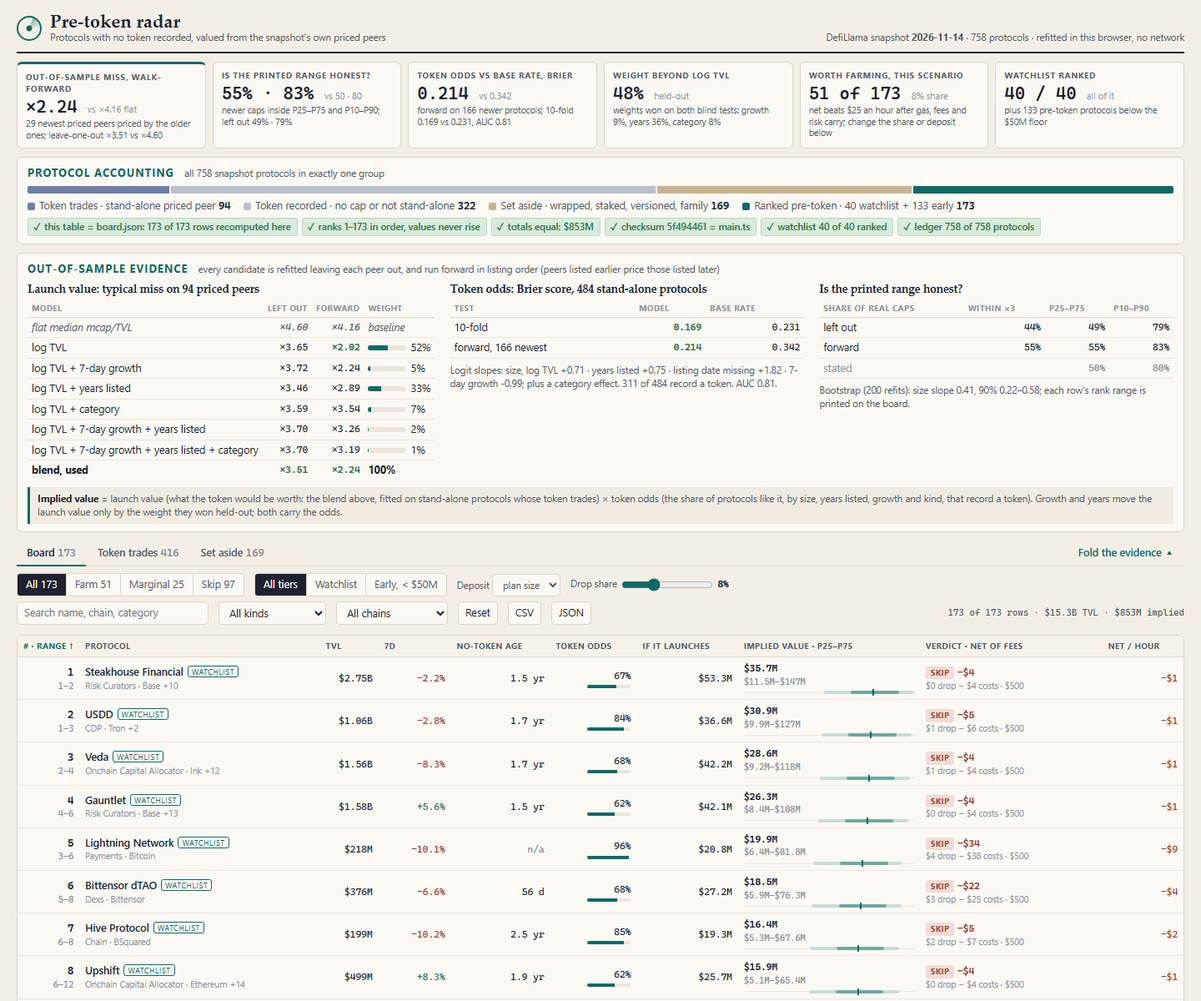
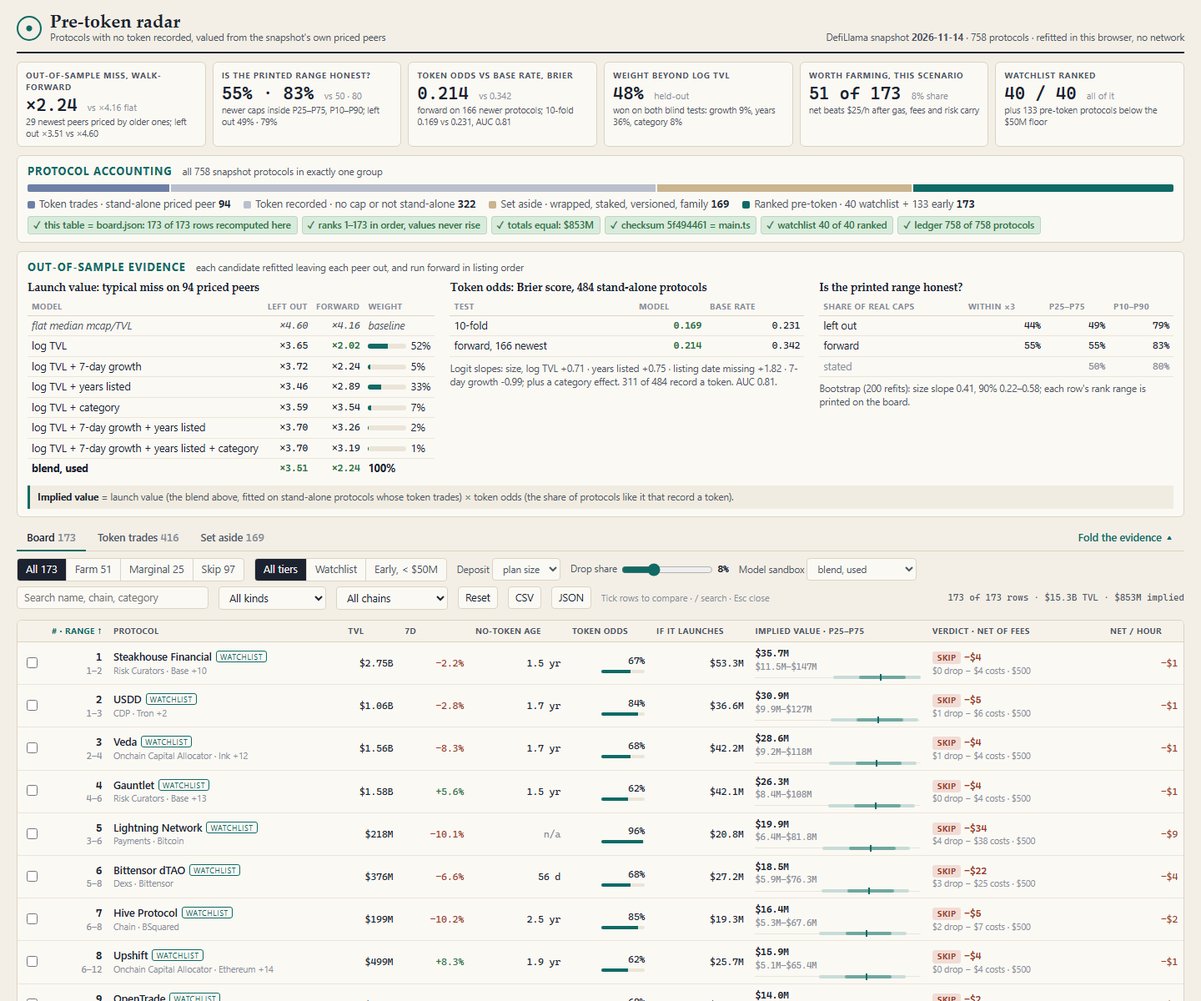
v4: compare ticked rows, model sandbox that re-ranks the board, keyboard search; source trimmed to fit the dossier whole

diff --git a/dashboard/app.js b/dashboard/app.js
@@ -23,8 +23,7 @@
     [c.comp + c.token + c.aside + c.pre === c.all, `ledger ${c.comp + c.token + c.aside + c.pre} of ${c.all} protocols`],
   ];
 
-  // ---- State in the hash ----
-  const DEF = { tab: 'board', q: '', v: '', tier: '', kind: '', chain: '', sort: 'rank', dir: '1', open: '', dep: '', share: '', fold: '' };
+  const DEF = { tab: 'board', q: '', v: '', tier: '', kind: '', chain: '', sort: 'rank', dir: '1', open: '', dep: '', share: '', fold: '', cmp: '', mdl: '' };
   let S = { ...DEF };
   const readHash = () => { S = { ...DEF }; new URLSearchParams(location.hash.slice(1)).forEach((v, k) => { if (k in S) S[k] = v; }); };
   function set(patch) {
@@ -44,23 +43,24 @@
     return cache.get(k);
   }
 
-  // ---- Small pieces ----
   const chip = (v) => `<span class="v v-${v}">${v}</span>`;
   const delta = (x) => (x == null ? '<span class="dim">n/a</span>' : `<span class="${x >= 0 ? 'up' : 'dn'}">${pct(x)}</span>`);
+  const delta0 = (x) => `<span class="${x >= 0 ? 'up' : 'dn'}">${usd(x)}</span>`;
   const age = (r) => (r.age === null ? '<span class="dim">n/a</span>' : r.age < 1 ? Math.round(r.age * 365) + ' d' : r.age.toFixed(1) + ' yr');
   const lo = Math.log10(Math.min(...R.ranked.map((r) => r.value.p10 * r.odds))), hi = Math.log10(Math.max(...R.ranked.map((r) => r.value.p90 * r.odds)));
   const at = (v) => ((Math.log10(v) - lo) / (hi - lo) * 100).toFixed(1);
   const band = (r) => { const v = r.value, k = r.odds; return `<span class="band"><i class="w" style="left:${at(v.p10 * k)}%;right:${100 - at(v.p90 * k)}%"></i><i class="i" style="left:${at(v.p25 * k)}%;right:${100 - at(v.p75 * k)}%"></i><b style="left:${at(r.implied)}%"></b></span>`; };
+  const kv = (cls, items) => `<dl class="kv ${cls}">${items.map(([t, v]) => `<div><dt>${t}</dt><dd>${v}</dd></div>`).join('')}</dl>`;
   const bar = (p) => `<span class="ob"><i style="width:${p0(p)}"></i></span>`;
 
   function drawTop() {
     const farmN = R.ranked.filter((r) => farm(r).verdict === 'FARM').length;
     const tiles = [
-      ['Out-of-sample miss, walk-forward', x2(m.missWf), `vs ${x2(m.flatWf)} flat`, `${m.wfCount} newest priced peers priced by the older ones; leave-one-out ${x2(m.missLoo)} vs ${x2(m.flatLoo)}`],
-      ['Is the printed range honest?', `${p0(m.honestWf.p50)} · ${p0(m.honestWf.p80)}`, 'vs 50 · 80', `newer caps inside P25–P75 and P10–P90; left out ${p0(m.honestLoo.p50)} · ${p0(m.honestLoo.p80)}`],
+      ['Out-of-sample miss, walk-forward', x2(m.missWf), `vs ${x2(m.flatWf)} flat`, `${m.wfCount} newest peers priced by older ones; left out ${x2(m.missLoo)} vs ${x2(m.flatLoo)}`],
+      ['Is the printed range honest?', `${p0(m.honestWf.p50)} · ${p0(m.honestWf.p80)}`, 'vs 50 · 80', `newer caps inside P25–P75, P10–P90; left out ${p0(m.honestLoo.p50)} · ${p0(m.honestLoo.p80)}`],
       ['Token odds vs base rate, Brier', o.brierWf.toFixed(3), `vs ${o.brierWfBase.toFixed(3)}`, `forward on ${o.wfCount} newer protocols; 10-fold ${o.brier.toFixed(3)} vs ${o.brierBase.toFixed(3)}, AUC ${o.auc.toFixed(2)}`],
-      ['Weight beyond log TVL', p0(1 - m.fits[0].weight), 'held-out', `weights won on both blind tests: growth ${p0(m.termWeight.growth)}, years ${p0(m.termWeight.age)}, category ${p0(m.termWeight.kind)}`],
-      ['Worth farming, this scenario', `${farmN} of ${c.pre}`, `${p0(shareNow())} share`, `net beats $${M.ASSUME.hourTarget} an hour after gas, fees and risk carry; change the share or deposit below`],
+      ['Weight beyond log TVL', p0(1 - m.fits[0].weight), 'held-out', `won on both blind tests: growth ${p0(m.termWeight.growth)}, years ${p0(m.termWeight.age)}, category ${p0(m.termWeight.kind)}`],
+      ['Worth farming, this scenario', `${farmN} of ${c.pre}`, `${p0(shareNow())} share`, `net beats $${M.ASSUME.hourTarget}/h after gas, fees and risk carry`],
       ['Watchlist ranked', `${c.watchRanked} / ${c.watch}`, 'all of it', `plus ${c.pre - c.watchRanked} pre-token protocols below the $50M floor`],
     ];
     $('tiles').innerHTML = tiles.map(([t, big, vs, note]) => `<div class="tile"><p class="tt">${t}</p><p class="big">${big} <small>${vs}</small></p><p class="tn">${note}</p></div>`).join('');
@@ -76,7 +76,7 @@
     const rows = m.fits.map((f) => `<tr><td>${f.id}</td><td class="n">${x2(f.missLoo)}</td><td class="n${f.missWf === best ? ' good' : ''}">${x2(f.missWf)}</td><td class="nw"><span class="wb"><i style="width:${p0(f.weight)}"></i></span>${p0(f.weight)}</td></tr>`).join('');
     const oc = o.coef;
     const H = (a) => `<td class="n">${p0(a.x3)}</td><td class="n">${p0(a.p50)}</td><td class="n">${p0(a.p80)}</td>`;
-    $('evidence').innerHTML = `<div class="lh"><h2>Out-of-sample evidence</h2><span>every candidate is refitted leaving each peer out, and run forward in listing order (peers listed earlier price those listed later)</span></div>
+    $('evidence').innerHTML = `<div class="lh"><h2>Out-of-sample evidence</h2><span>each candidate refitted leaving each peer out, and run forward in listing order</span></div>
       <div class="ev3"><div><h3>Launch value: typical miss on ${m.peers.length} priced peers</h3>
       <table class="mini"><thead><tr><th>Model</th><th>Left out</th><th>Forward</th><th>Weight</th></tr></thead><tbody>
       <tr class="base"><td>flat median mcap/TVL</td><td class="n">${x2(m.flatLoo)}</td><td class="n">${x2(m.flatWf)}</td><td class="dim">baseline</td></tr>${rows}
@@ -90,7 +90,7 @@
       <table class="mini"><thead><tr><th>Share of real caps</th><th>Within ×3</th><th>P25–P75</th><th>P10–P90</th></tr></thead><tbody>
       <tr><td>left out</td>${H(m.honestLoo)}</tr><tr><td>forward</td>${H(m.honestWf)}</tr><tr class="dim"><td>stated</td><td></td><td class="n">50%</td><td class="n">80%</td></tr></tbody></table>
       <p class="sm">Bootstrap (${R.boot.n} refits): size slope ${m.coef.logTVL.toFixed(2)}, 90% ${R.boot.slopeLo.toFixed(2)}–${R.boot.slopeHi.toFixed(2)}; each row's rank range is printed on the board.</p></div></div>
-      <p class="formula"><b>Implied value</b> = launch value (what the token would be worth: the blend above, fitted on stand-alone protocols whose token trades) × token odds (the share of protocols like it, by size, years listed, growth and kind, that record a token). Growth and years move the launch value only by the weight they won held-out; both carry the odds.</p>`;
+      <p class="formula"><b>Implied value</b> = launch value (the blend above, fitted on stand-alone protocols whose token trades) × token odds (the share of protocols like it that record a token).</p>`;
   }
 
   function drawTabs() {
@@ -100,7 +100,6 @@
     document.body.classList.toggle('folded', !!S.fold);
   }
 
-  // ---- Filters and scenario ----
   const chains = [...R.ranked.reduce((mp, r) => { r.chains.forEach((x) => mp.set(x, (mp.get(x) || 0) + 1)); return mp; }, new Map())].sort((a, b) => b[1] - a[1] || (a[0] < b[0] ? -1 : 1)).slice(0, 30).map(([x]) => x);
   function inView(r) {
     const q = S.q.trim().toLowerCase();
@@ -115,45 +114,58 @@
     $('tools').innerHTML = `<div class="row">${seg('v', [['', `All ${base.length}`], ['FARM', `Farm ${n('FARM')}`], ['MARGINAL', `Marginal ${n('MARGINAL')}`], ['SKIP', `Skip ${n('SKIP')}`]])}
       ${seg('tier', [['', 'All tiers'], ['watch', 'Watchlist'], ['early', 'Early, < $50M']])}
       <label>Deposit ${sel('dep', 'Deposit', [['', 'plan size']].concat(M.ASSUME.tiers.map((t) => [String(t), usd(t)])))}</label>
-      <label>Drop share <input id="share" type="range" min="2" max="20" value="${Math.round(shareNow() * 100)}"> <b>${p0(shareNow())}</b></label></div>
+      <label>Drop share <input id="share" type="range" min="2" max="20" value="${Math.round(shareNow() * 100)}"> <b>${p0(shareNow())}</b></label>
+      <label>Model sandbox ${sel('mdl', 'Value model', [['', 'blend, used'], ['tvl', 'log TVL curve only'], ['flat', 'flat multiple']])}</label></div>
       <div class="row"><input id="q" value="${esc(S.q)}" placeholder="Search name, chain, category">
       ${sel('kind', 'Kind', [['', 'All kinds']].concat(M.KINDS.map((k) => [k, KIND_LABEL[k]])))}${sel('chain', 'Chain', [['', 'All chains']].concat(chains.map((x) => [x, x])))}
       <button class="btn" data-reset>Reset</button><button class="btn" data-export="csv">CSV</button><button class="btn" data-export="json">JSON</button>
-      <span class="count" id="count"></span></div>`;
+      <span class="hint">Tick rows to compare · / search · Esc close</span><span class="count" id="count"></span></div>`;
   }
 
-  // ---- Board ----
   const VO = { FARM: 0, MARGINAL: 1, SKIP: 2 };
   const COLS = [['rank', '# · range', (r) => r.rank], ['name', 'Protocol', (r) => r.name.toLowerCase()], ['tvl', 'TVL', (r) => -r.tvl], ['g', '7d', (r) => -(r.change7d || 0)],
     ['age', 'No-token age', (r) => -r.ageUsed], ['odds', 'Token odds', (r) => -r.odds], ['launch', 'If it launches', (r) => -r.value.mid], ['implied', 'Implied value · P25–P75', (r) => -r.implied],
     ['verdict', 'Verdict · net of fees', (r) => VO[farm(r).verdict] * 1e9 - farm(r).hourly], ['hourly', 'Net / hour', (r) => -farm(r).hourly]];
   const shown = () => {
     const col = COLS.find((k) => k[0] === S.sort) || COLS[0], d = Number(S.dir) || 1;
-    return R.ranked.filter((r) => inView(r) && (!S.v || farm(r).verdict === S.v)).sort((a, b) => { const x = col[2](a), y = col[2](b); return (x < y ? -1 : x > y ? 1 : a.rank - b.rank) * d; });
+    const key = S.mdl && col[0] === 'rank' ? (r) => -r.alt[S.mdl] : col[2];
+    return R.ranked.filter((r) => inView(r) && (!S.v || farm(r).verdict === S.v)).sort((a, b) => { const x = key(a), y = key(b); return (x < y ? -1 : x > y ? 1 : a.rank - b.rank) * d; });
   };
   function drawBoard() {
     const rows = shown(), d = Number(S.dir) || 1, up = (k) => (['rank', 'name'].includes(k) ? d > 0 : d < 0);
-    const head = COLS.map(([k, l]) => `<th data-sort="${k}" aria-sort="${S.sort === k ? (up(k) ? 'ascending' : 'descending') : 'none'}">${l}${S.sort === k ? (up(k) ? ' ↑' : ' ↓') : ''}</th>`).join('');
+    const ar = S.mdl ? new Map(R.ranked.slice().sort((a, b) => b.alt[S.mdl] - a.alt[S.mdl]).map((r, i) => [r.slug, i + 1])) : null, picked = S.cmp ? S.cmp.split(',') : [];
+    const head = '<th class="ck"></th>' + COLS.map(([k, l]) => `<th data-sort="${k}" aria-sort="${S.sort === k ? (up(k) ? 'ascending' : 'descending') : 'none'}">${l}${S.sort === k ? (up(k) ? ' ↑' : ' ↓') : ''}</th>`).join('');
     const body = rows.map((r) => { const f = farm(r); return `<tr data-open="${r.slug}"${S.open === r.slug ? ' class="sel"' : ''}>
-      <td class="rk"><b>${r.rank}</b><small>${r.range[0]}–${r.range[1]}</small></td>
+      <td class="ck"><input type="checkbox" data-cmp="${r.slug}"${picked.includes(r.slug) ? ' checked' : ''} aria-label="Compare ${esc(r.name)}"></td>
+      <td class="rk"><b>${r.rank}</b><small>${ar ? `${S.mdl === 'tvl' ? 'curve' : 'flat'} #${ar.get(r.slug)}` : `${r.range[0]}–${r.range[1]}`}</small></td>
       <td class="pn"><b>${esc(r.name)}</b>${r.watch ? '<em class="wl">Watchlist</em>' : '<em class="ea">Early</em>'}<small>${esc(r.category)} · ${esc(r.chains[0])}${r.chains.length > 1 ? ` +${r.chains.length - 1}` : ''}</small></td>
       <td class="n">${usd(r.tvl)}</td><td class="n">${delta(r.change7d)}</td><td class="n">${age(r)}</td><td class="n">${p0(r.odds)}${bar(r.odds)}</td><td class="n">${usd(r.value.mid)}</td>
       <td class="iv"><b class="n">${usd(r.implied)}</b><small>${usd(r.value.p25 * r.odds)}–${usd(r.value.p75 * r.odds)}</small>${band(r)}</td>
       <td>${chip(f.verdict)} <b class="n ${f.net >= 0 ? 'up' : 'dn'}">${usd(f.net)}</b><small>${usd(f.expected)} drop − ${usd(f.fixed + f.carry)} costs · ${usd(f.capital)}</small></td>
       <td class="n ${f.hourly >= 0 ? '' : 'dn'}">${usd(f.hourly)}</td></tr>`; }).join('');
-    $('main').innerHTML = `<div class="tw"><table class="board"><thead><tr>${head}</tr></thead><tbody>${body || '<tr><td colspan="10" class="empty">No protocol matches these filters.</td></tr>'}</tbody></table></div>`;
+    const sandbox = ar ? `<p class="formula">Sandbox: rows re-ranked by ${S.mdl === 'tvl' ? 'the log TVL curve alone' : 'one flat mcap/TVL multiple'} (same token odds). ${R.ranked.filter((r) => Math.abs(ar.get(r.slug) - r.rank) > 10).length} of ${c.pre} rows move more than 10 places; the blend is used because it won both blind tests.</p>` : '';
+    $('main').innerHTML = compare(picked) + sandbox + `<div class="tw"><table class="board"><thead><tr>${head}</tr></thead><tbody>${body || '<tr><td colspan="11" class="empty">No protocol matches these filters.</td></tr>'}</tbody></table></div>`;
     const cnt = $('count');
     if (cnt) cnt.textContent = `${rows.length} of ${c.pre} rows · ${usd(rows.reduce((s, r) => s + r.tvl, 0))} TVL · ${usd(rows.reduce((s, r) => s + r.implied, 0))} implied`;
   }
+  /** Side by side: the figures and plan of every ticked row. */
+  function compare(slugs) {
+    const rs = slugs.map((s) => bySlug.get(s)).filter((r) => r && r.rank);
+    if (!rs.length) return '';
+    const line = (label, fn) => `<tr><th>${label}</th>${rs.map((r) => `<td class="n">${fn(r, farm(r))}</td>`).join('')}</tr>`;
+    return `<section class="cmp"><div class="lh"><h2>Compare ${rs.length}</h2><span>ticked rows, side by side</span><button class="btn" data-set="cmp" data-val="${S.cmp}">Clear</button></div><table class="mini"><thead><tr><th></th>${rs.map((r) => `<th><a data-open="${r.slug}">${esc(r.name)}</a></th>`).join('')}</tr></thead><tbody>
+      ${line('Rank · bootstrap range', (r) => `${r.rank} · ${r.range[0]}–${r.range[1]}`)}${line('TVL · 7d', (r) => `${usd(r.tvl)} · ${pct(r.change7d)}`)}${line('Token odds', (r) => p0(r.odds))}
+      ${line('If it launches', (r) => usd(r.value.mid))}${line('Implied value', (r) => usd(r.implied))}${line('Verdict', (r, f) => chip(f.verdict))}
+      ${line('Plan', (r, f) => `${usd(f.capital)} on ${esc(f.chain)}, ${f.hold} d`)}${line('Drop − costs', (r, f) => `${usd(f.expected)} − ${usd(f.fixed + f.carry)}`)}${line('Net · per hour', (r, f) => `${usd(f.net)} · ${usd(f.hourly)}`)}</tbody></table></section>`;
+  }
   function drawList(kind) {
     const rows = R.rows.filter((r) => (kind === 'aside' ? r.status === 'aside' : r.status === 'comp' || r.status === 'token')).sort((a, b) => (b.mcap || 0) - (a.mcap || 0) || b.tvl - a.tvl);
-    const head = kind === 'aside' ? '<th>Protocol</th><th>TVL</th><th>Why it is set aside</th>' : '<th>Protocol</th><th>Token</th><th>TVL</th><th>Market cap</th><th>Cap / TVL</th><th>Cap ÷ held-out model</th><th>Group</th>';
+    const head = kind === 'aside' ? '<th>Protocol</th><th>TVL</th><th>Why it is set aside</th>' : '<th>Protocol</th><th>Token</th><th>TVL</th><th>Market cap</th><th>Cap / TVL</th><th>Cap ÷ held-out model</th>';
     $('main').innerHTML = `<div class="tw"><table class="board"><thead><tr>${head}</tr></thead><tbody>${rows.map((r) => `<tr data-open="${r.slug}"><td class="pn"><b>${esc(r.name)}</b><small>${esc(r.category)}</small></td>${kind === 'aside'
       ? `<td class="n">${usd(r.tvl)}</td><td class="why">${esc(r.reason)}</td>`
-      : `<td>${esc(r.symbol || '')}</td><td class="n">${usd(r.tvl)}</td><td class="n">${r.mcap ? usd(r.mcap) : '<span class="dim">none</span>'}</td><td class="n">${r.mcap ? x2(r.mcap / r.tvl) : ''}</td><td class="n">${r.residual === undefined ? '' : x2(10 ** r.residual)}</td><td class="why">${r.status === 'comp' ? 'priced peer' : 'not used'}</td>`}</tr>`).join('')}</tbody></table></div>`;
+      : `<td>${esc(r.symbol || '')}</td><td class="n">${usd(r.tvl)}</td><td class="n">${r.mcap ? usd(r.mcap) : '<span class="dim">none</span>'}</td><td class="n">${r.mcap ? x2(r.mcap / r.tvl) : ''}</td><td class="n">${r.residual === undefined ? '<span class="dim">not a peer</span>' : x2(10 ** r.residual)}</td>`}</tr>`).join('')}</tbody></table></div>`;
   }
 
-  // ---- Detail ----
   function peersOf(r) {
     const same = m.peers.filter((p) => p.kind === r.kind);
     return (same.length >= 4 ? same : m.peers).slice().sort((a, b) => Math.abs(a.lt - r.lt) - Math.abs(b.lt - r.lt)).slice(0, 6);
@@ -161,7 +173,7 @@
   function detail(r) {
     const head = `<button class="x" data-close aria-label="Close">×</button><p class="crumb">${r.rank ? `#${r.rank} of ${c.pre} by implied value · rank ${r.range[0]}–${r.range[1]} across ${R.boot.n} bootstrap refits` : r.status === 'aside' ? 'Set aside' : 'Token recorded'}</p>
       <h2>${esc(r.name)}</h2><p class="tags">${r.watch ? '<em class="wl">Watchlist</em>' : ''}<span>${esc(r.category)}</span><span>${KIND_LABEL[r.kind]}</span>${r.chains.slice(0, 4).map((x) => `<span>${esc(x)}</span>`).join('')}</p>
-      <dl class="kv"><div><dt>TVL</dt><dd>${usd(r.tvl)}</dd></div><div><dt>7-day</dt><dd>${delta(r.change7d)}</dd></div><div><dt>Listed since</dt><dd>${r.listed || 'n/a'}</dd></div><div><dt>${r.mcap ? 'Market cap' : 'Implied value'}</dt><dd>${usd(r.mcap || r.implied || r.value.mid)}</dd></div></dl>`;
+      ${kv('', [['TVL', usd(r.tvl)], ['7-day', delta(r.change7d)], ['Listed since', r.listed || 'n/a'], [r.mcap ? 'Market cap' : 'Implied value', usd(r.mcap || r.implied || r.value.mid)]])}`;
     if (r.status !== 'pre') return `<section class="card">${head}<p class="why">${esc(r.reason)}</p>${r.residual !== undefined ? `<p class="sm">The blend prices it at ${usd(r.value.mid)}; left out of the fit, its real cap is ${x2(10 ** r.residual)} the model.</p>` : ''}</section>`;
     const p = M.valueParts(r, m.coef), k = m.coef, f = farm(r), plan = f === r.farm ? r.plan : M.farmPlan(r, f, R.asOf);
     const step = (t, how, v) => `<tr><td><b>${t}</b><small>${how}</small></td><td class="n">${v}</td></tr>`;
@@ -179,16 +191,15 @@
       <h3>Nearest priced peers · their tokens trade</h3><table class="mini"><thead><tr><th>Token</th><th>TVL</th><th>Market cap</th><th>Cap/TVL</th><th>Cap ÷ model</th></tr></thead><tbody>
       ${peersOf(r).map((q) => `<tr><td>${esc(q.name)} <span class="dim">${esc(q.symbol || '')}</span></td><td class="n">${usd(q.tvl)}</td><td class="n">${usd(q.mcap)}</td><td class="n">${x2(q.mcap / q.tvl)}</td><td class="n">${x2(10 ** q.residual)}</td></tr>`).join('')}</tbody></table>
       </div><div><h3>Farm verdict ${chip(f.verdict)}</h3>
-      <p class="say">${f.verdict}: ${usd(f.capital)} on ${esc(f.chain)} for ${f.hold} days buys a modelled drop of ${usd(f.expected)} for ${usd(f.fixed + f.carry)} of fees and risk carry and ${f.hours.toFixed(1)} h of work, a net of ${usd(f.net)} (${usd(f.hourly)} an hour).</p>
-      <dl class="kv k6"><div><dt>At risk</dt><dd>${usd(f.capital)}</dd></div><div><dt>Fees + carry</dt><dd>${usd(f.fixed + f.carry)}</dd></div><div><dt>Drop</dt><dd>${usd(f.expected)}</dd></div><div><dt>Net</dt><dd class="${f.net >= 0 ? 'up' : 'dn'}">${usd(f.net)}</dd></div><div><dt>Hands-on</dt><dd>${f.hours.toFixed(1)} h</dd></div><div><dt>Net / hour</dt><dd>${usd(f.hourly)}</dd></div></dl>
-      <p class="sm">Benchmarks: the same money in a 4% T-bill earns ${usd(f.tbill)} over ${f.hold} days · launch odds in the window ${p0(f.launch)} · break-even capital ${f.minViable === null ? 'none' : usd(f.minViable)} · exit if TVL prints below ${usd(r.tvl * 0.75)}.</p>
+      <p class="say">${f.verdict}: ${usd(f.capital)} on ${esc(f.chain)} for ${f.hold} days buys a modelled drop of ${usd(f.expected)} against ${usd(f.fixed + f.carry)} of fees and risk carry.</p>
+      ${kv('k6', [['At risk', usd(f.capital)], ['Fees + carry', usd(f.fixed + f.carry)], ['Drop', usd(f.expected)], ['Net', delta0(f.net)], ['Hands-on', f.hours.toFixed(1) + ' h'], ['Net / hour', usd(f.hourly)]])}
+      <p class="sm">Benchmarks: a 4% T-bill earns ${usd(f.tbill)} over ${f.hold} days · launch odds in the window ${p0(f.launch)} · break-even capital ${f.minViable === null ? 'none' : usd(f.minViable)} · exit if TVL prints below ${usd(r.tvl * 0.75)}.</p>
       <h3>Farm plan · ${plan.length - 1} steps</h3><table class="mini steps"><thead><tr><th>When</th><th>Step</th><th>Cost</th><th>Time</th></tr></thead><tbody>
       ${plan.map((s) => (s.cost === null ? '' : `<tr><td class="when">${s.when}</td><td><b>${s.step}</b> ${esc(s.text.slice(s.text.indexOf(': ') + 2).replace(/ Cost [^,]*, about [^.]*\.$/, ''))}</td><td class="n">${s.cost > 0 && s.cost < 1 ? '$' + s.cost.toFixed(2) : usd(s.cost)}</td><td class="n">${s.minutes}m</td></tr>`)).join('')}
       <tr class="tot"><td></td><td>All in: net ${usd(f.net)} (P25 ${usd(f.netLo)}, P75 ${usd(f.netHi)})</td><td class="n">${usd(f.fixed + f.carry)}</td><td class="n">${f.hours.toFixed(1)}h</td></tr></tbody></table>
       <h3>Drop share × deposit: net of fees</h3><table class="mini grid"><thead><tr><th>Share</th>${deps.map((C) => `<th>${C === f.capital ? 'plan ' : ''}${usd(C)}</th>`).join('')}</tr></thead><tbody>${grid}</tbody></table></div></div></section>`;
   }
 
-  // ---- Export the current view ----
   function exportView(kind) {
     const rows = shown().map((r) => { const f = farm(r); return { rank: r.rank, slug: r.slug, name: r.name, tvl_usd: r.tvl, change_7d: r.change7d, token_odds: +r.odds.toFixed(4), launch_value_usd: Math.round(r.value.mid), implied_value_usd: r.implied, verdict: f.verdict, capital_usd: f.capital, net_usd: Math.round(f.net), hours: +f.hours.toFixed(2) }; });
     const text = kind === 'json' ? JSON.stringify(rows, null, 1) : [Object.keys(rows[0] || {}).join(',')].concat(rows.map((r) => Object.values(r).map((v) => (typeof v === 'string' && /[",]/.test(v) ? `"${v.replace(/"/g, '""')}"` : v)).join(','))).join('\n');
@@ -208,10 +219,11 @@
   }
 
   document.addEventListener('click', (ev) => {
-    const t = ev.target.closest('[data-set],[data-sort],[data-open],[data-close],[data-reset],[data-export]');
+    const t = ev.target.closest('[data-cmp],[data-set],[data-sort],[data-open],[data-close],[data-reset],[data-export]');
     if (!t) return;
     const d = t.dataset;
-    if (d.set) set({ [d.set]: S[d.set] === d.val && d.set !== 'tab' ? '' : d.val, open: d.set === 'tab' ? '' : S.open });
+    if (d.cmp) { const l = S.cmp ? S.cmp.split(',') : [], i = l.indexOf(d.cmp); if (i >= 0) l.splice(i, 1); else l.push(d.cmp); set({ cmp: l.slice(-4).join(',') }); }
+    else if (d.set) set({ [d.set]: S[d.set] === d.val && d.set !== 'tab' ? '' : d.val, open: d.set === 'tab' ? '' : S.open });
     else if (d.sort) set({ sort: d.sort, dir: S.sort === d.sort ? String(-Number(S.dir)) : '1' });
     else if (d.open) set({ open: d.open });
     else if (d.close !== undefined) set({ open: '' });
@@ -219,8 +231,11 @@
     else exportView(d.export);
   });
   document.addEventListener('input', (ev) => { if (ev.target.id === 'q') { S.q = ev.target.value; drawBoard(); } if (ev.target.id === 'share') set({ share: ev.target.value }); });
-  document.addEventListener('change', (ev) => { if (['dep', 'kind', 'chain', 'q'].includes(ev.target.id)) set({ [ev.target.id]: ev.target.value }); });
-  document.addEventListener('keydown', (ev) => { if (ev.key === 'Escape' && S.open) set({ open: '' }); });
+  document.addEventListener('change', (ev) => { if (['dep', 'kind', 'chain', 'q', 'mdl'].includes(ev.target.id)) set({ [ev.target.id]: ev.target.value }); });
+  document.addEventListener('keydown', (ev) => {
+    if (ev.key === 'Escape' && S.open) set({ open: '' });
+    if (ev.key === '/' && ev.target.tagName !== 'INPUT' && $('q')) { ev.preventDefault(); $('q').focus(); }
+  });
   window.addEventListener('hashchange', () => { readHash(); draw(); });
   readHash();
   draw();

diff --git a/dashboard/app.css b/dashboard/app.css
@@ -1,8 +1,6 @@
 /* Pre-token radar: a paper ledger. Warm paper, ink type, one teal accent; green, amber and rust carry the verdicts. */
 :root {
-  --paper: #f3efe6; --card: #fbf9f4; --ink: #1c2230; --soft: #4f5666; --dim: #8a8f99; --line: #dcd4c4; --line2: #ebe5d8; --wash: #f1ece1;
-  --teal: #0f6a65; --teal-w: #d5e7e3; --amber: #a8640c; --amber-w: #f3e3c6; --rust: #9c3d2c; --rust-w: #f1dcd5; --green: #2c7445; --green-w: #d9ebdc;
-  --serif: "Iowan Old Style", "Palatino Linotype", Palatino, Georgia, serif; --sans: "Segoe UI", system-ui, sans-serif; --mono: "Cascadia Mono", Consolas, ui-monospace, monospace;
+  --paper: #f3efe6; --card: #fbf9f4; --ink: #1c2230; --soft: #4f5666; --dim: #8a8f99; --line: #dcd4c4; --line2: #ebe5d8; --wash: #f1ece1; --teal: #0f6a65; --teal-w: #d5e7e3; --amber: #a8640c; --amber-w: #f3e3c6; --rust: #9c3d2c; --rust-w: #f1dcd5; --green: #2c7445; --green-w: #d9ebdc; --serif: "Iowan Old Style", "Palatino Linotype", Palatino, Georgia, serif; --sans: "Segoe UI", system-ui, sans-serif; --mono: "Cascadia Mono", Consolas, ui-monospace, monospace;
 }
 * { box-sizing: border-box; }
 html { background: var(--paper); }
@@ -16,20 +14,21 @@ small { display: block; color: var(--dim); font-size: 10.5px; font-weight: 400; 
 
 .mast { display: flex; justify-content: space-between; align-items: flex-end; padding-bottom: 9px; border-bottom: 2px solid var(--ink); }
 .brand { display: flex; gap: 10px; align-items: center; }
-.mark { width: 30px; height: 30px; border-radius: 50%; border: 2px solid var(--teal); flex: none; background: radial-gradient(circle, var(--teal) 0 3px, transparent 4px), conic-gradient(from 20deg, rgba(15,106,101,.4), transparent 70deg); }
+.mark { width: 30px; height: 30px; border-radius: 50%; border: 2px solid var(--teal); flex: none; background: radial-gradient(circle, var(--teal) 0 3px, transparent 4px); }
 h1 { font-size: 22px; line-height: 1.05; } .sub, .src { margin: 0; color: var(--soft); font-size: 11.5px; }
 
+/* small-caps labels */
+.tt, .lh h2, .mini th, .board th, .kv dt, .wl, .ea { text-transform: uppercase; letter-spacing: .07em; }
 .tiles { display: grid; grid-template-columns: repeat(6, 1fr); gap: 8px; margin: 10px 0; }
 .tile { background: var(--card); border: 1px solid var(--line); border-radius: 6px; padding: 8px 10px; }
-.tile:first-child { border-top: 3px solid var(--teal); }
-.tt { margin: 0; font-size: 10px; text-transform: uppercase; letter-spacing: .07em; color: var(--soft); font-weight: 700; }
+.tt { margin: 0; font-size: 10px; color: var(--soft); font-weight: 700; }
 .big { margin: 3px 0 2px; font: 600 21px var(--mono); color: var(--ink); white-space: nowrap; }
 .big small { display: inline; font: 11px var(--sans); color: var(--dim); }
 .tn { margin: 0; font-size: 10.5px; color: var(--soft); line-height: 1.3; }
 
 .ledger, .evidence { background: var(--card); border: 1px solid var(--line); border-radius: 6px; padding: 9px 12px; margin-bottom: 10px; }
 .lh { display: flex; gap: 12px; align-items: baseline; margin-bottom: 6px; }
-.lh h2 { font-size: 13px; text-transform: uppercase; letter-spacing: .08em; font-family: var(--sans); font-weight: 700; color: var(--teal); }
+.lh h2 { font-size: 13px; font-family: var(--sans); font-weight: 700; color: var(--teal); }
 .lh span { color: var(--soft); font-size: 11.5px; }
 .bar { display: flex; height: 9px; gap: 2px; border-radius: 2px; overflow: hidden; }
 .s-comp { background: #6d7fa6; } .s-token { background: #b9bfcc; } .s-aside { background: #c9b48f; } .s-pre { background: var(--teal); }
@@ -44,7 +43,7 @@ h1 { font-size: 22px; line-height: 1.05; } .sub, .src { margin: 0; color: var(--
 .ev3 { display: grid; grid-template-columns: 1.15fr 1fr 1fr; gap: 18px; }
 .evidence h3, .card h3 { font-size: 13.5px; margin: 0 0 4px; }
 .mini { width: 100%; border-collapse: collapse; }
-.mini th { text-align: left; font-size: 9.5px; text-transform: uppercase; letter-spacing: .07em; color: var(--dim); padding: 3px 5px; border-bottom: 1px solid var(--line); }
+.mini th { text-align: left; font-size: 9.5px; color: var(--dim); padding: 3px 5px; border-bottom: 1px solid var(--line); }
 .mini td { padding: 3px 5px; border-bottom: 1px solid var(--line2); vertical-align: top; }
 .mini .tot td { font-weight: 700; border-top: 1px solid var(--ink); border-bottom: 0; }
 .mini .base td { color: var(--soft); font-style: italic; }
@@ -65,18 +64,22 @@ body.folded #tiles, body.folded #evidence { display: none; }
 .seg button:last-child { border-right: 0; } .seg .on { background: var(--ink); color: var(--card); }
 select, #q, .btn { border: 1px solid var(--line); background: var(--card); border-radius: 4px; padding: 4px 8px; }
 #q { width: 230px; } .btn { cursor: pointer; } #share { width: 110px; vertical-align: middle; accent-color: var(--teal); }
+.hint { color: var(--dim); font-size: 11px; }
+.ck { width: 22px; } .ck input { accent-color: var(--teal); cursor: pointer; }
+.cmp { background: var(--card); border: 1px solid var(--teal); border-radius: 6px; padding: 8px 12px; margin-bottom: 8px; }
+.cmp th a { color: var(--teal); cursor: pointer; } .cmp .btn { margin-left: auto; }
 .count { margin-left: auto; color: var(--soft); font-family: var(--mono); font-size: 11px; }
 
 .tw { background: var(--card); border: 1px solid var(--line); border-radius: 6px; overflow: hidden; }
 .board { width: 100%; border-collapse: collapse; }
-.board th { text-align: left; font-size: 9.5px; text-transform: uppercase; letter-spacing: .07em; color: var(--soft); padding: 6px 7px; background: #f6f2ea; border-bottom: 1px solid var(--line); cursor: pointer; white-space: nowrap; }
-.board th[aria-sort="ascending"], .board th[aria-sort="descending"] { color: var(--teal); }
+.board th { text-align: left; font-size: 9.5px; color: var(--soft); padding: 6px 7px; background: #f6f2ea; border-bottom: 1px solid var(--line); cursor: pointer; white-space: nowrap; }
+.board th:not([aria-sort="none"]) { color: var(--teal); }
 .board td { padding: 4px 7px; border-bottom: 1px solid var(--line2); vertical-align: middle; }
 .board tbody tr { cursor: pointer; } .board tbody tr:hover { background: #f4efe4; }
 .board tr.sel { background: var(--teal-w); box-shadow: inset 3px 0 var(--teal); }
 .rk { text-align: right; font-family: var(--mono); width: 54px; } .rk small { font-family: var(--mono); }
 .pn b { font-weight: 600; } .pn small { max-width: 250px; overflow: hidden; text-overflow: ellipsis; white-space: nowrap; }
-.wl, .ea { font-style: normal; font-size: 9px; text-transform: uppercase; letter-spacing: .07em; border-radius: 3px; padding: 0 4px; margin-left: 5px; vertical-align: 1px; }
+.wl, .ea { font-style: normal; font-size: 9px; border-radius: 3px; padding: 0 4px; margin-left: 5px; vertical-align: 1px; }
 .wl { color: var(--teal); border: 1px solid var(--teal); } .ea { color: var(--amber); border: 1px solid #dcb878; }
 .ob { display: block; width: 52px; height: 4px; background: var(--line2); border-radius: 2px; margin: 3px 0 0 auto; overflow: hidden; }
 .iv { min-width: 170px; } .iv small { font-family: var(--mono); }
@@ -95,10 +98,10 @@ body.open #detail .card { box-shadow: 0 18px 60px rgba(28,34,48,.28); }
 .tags { margin: 4px 0; } .tags span { display: inline-block; border: 1px solid var(--line); border-radius: 3px; padding: 0 5px; margin-right: 4px; font-size: 10.5px; color: var(--soft); }
 .kv { display: grid; grid-template-columns: repeat(4, 1fr); gap: 6px; margin: 6px 0 8px; } .k6 { grid-template-columns: repeat(6, 1fr); }
 .kv div { background: var(--wash); border-radius: 4px; padding: 5px 8px; }
-.kv dt { font-size: 9.5px; text-transform: uppercase; letter-spacing: .07em; color: var(--dim); } .kv dd { margin: 0; font: 13.5px var(--mono); }
+.kv dt { font-size: 9.5px; color: var(--dim); } .kv dd { margin: 0; font: 13.5px var(--mono); }
 .dg { display: grid; grid-template-columns: 0.95fr 1.25fr; gap: 22px; } .dg h3 { margin-top: 10px; }
 .chain td:last-child { font-weight: 700; } .chain .sub td, .chain .tot td { background: var(--wash); }
 .grid td.pick { outline: 2px solid var(--teal); outline-offset: -2px; font-weight: 700; }
 .say { margin: 4px 0 6px; padding: 7px 10px; border-left: 3px solid var(--green); background: #eef4ec; font-size: 12px; }
 .steps td { font-size: 11.3px; line-height: 1.35; } .steps .when { white-space: nowrap; color: var(--teal); font: 600 10.5px var(--mono); }
-@media (max-width: 1100px) { .tiles { grid-template-columns: repeat(3, 1fr); } .ev3, .dg { grid-template-columns: 1fr; } }
+.cmp thead th { text-align: right; }

diff --git a/dashboard/model.js b/dashboard/model.js
@@ -1,6 +1,6 @@
-/* Pre-token radar model, one plain script. main.ts runs it in Node to write board.json; the page runs the same
- * file and rebuilds the board from the raw snapshot, then checks it against board.json (rows, order, totals,
- * checksum). No protocol is named in the code: every figure comes from the snapshot or a stated assumption. */
+/* Pre-token radar model. main.ts runs it in Node to write board.json; the page runs the same file, rebuilds the
+ * board from the raw snapshot and checks it against board.json. No protocol is named: every figure comes from the
+ * snapshot or a stated assumption. */
 (function (root) {
   'use strict';
 
@@ -148,7 +148,7 @@
     const flatWf = forward(med, (m, i) => ratio[i] - m).map(([, e]) => e);
     const honesty = (es) => ({ x3: share(es, (e) => Math.abs(e) <= Math.log10(3)), p50: share(es, (e) => e >= band.p25 && e <= band.p75), p80: share(es, (e) => e >= band.p10 && e <= band.p90) });
     const weightOf = (t) => fits.filter((f) => f.terms.includes(t)).reduce((a, f) => a + f.weight, 0);
-    return { peers, y, fits, coef, band, blendCoef, wfCount: we.length,
+    return { peers, y, fits, coef, band, blendCoef, wfCount: we.length, flatRatio: med(ratio.map((_, i) => i)),
       missLoo: miss(le), missWf: miss(we), rmsLoo: rms(le), rmsWf: rms(we), flatLoo: miss(flatLoo), flatWf: miss(flatWf), flatRms: rms(flatLoo),
       honestLoo: honesty(le), honestWf: honesty(we), termWeight: { growth: weightOf('growth'), age: weightOf('age'), kind: weightOf('kind') },
       residual: new Map(peers.map((r, i) => [r.slug, le[i]])) };
@@ -215,13 +215,13 @@
   const entryFee = (c) => (c === 'Ethereum' || c === 'Bitcoin' ? 4 : 1);
   /** What a reader does, by kind: [step, when, what, transactions, minutes]. */
   const PLAYBOOK = {
-    vault: (C) => [['Deposit', 'Day 0', `deposit ${usd(C)} USDC into its largest USDC vault (approve + deposit); note whether the receipt token earns points where it is held`, 2, 10]],
+    vault: (C) => [['Deposit', 'Day 0', `deposit ${usd(C)} USDC into its largest USDC vault (approve + deposit)`, 2, 10]],
     lend: (C) => [['Supply', 'Day 0', `supply ${usd(C)} USDC (approve + supply)`, 2, 10], ['Borrow', 'Day 0', `borrow ${usd(C * 0.3)} of a second asset and resupply it once, health factor above 2, so both sides earn points`, 2, 15]],
     dex: (C) => [['Provide', 'Day 0', `add ${usd(C)} as liquidity in its deepest stable or major pair (two approvals + add)`, 3, 15], ['Trade', 'Weekly', `route about ${usd(C * 0.1)} of swaps through it each week`, 0, 0]],
     perp: (C) => [['Margin', 'Day 0', `deposit ${usd(C)} as margin (approve + deposit)`, 2, 10], ['Trade', 'Weekly', `trade about ${usd(C * 8)} of volume over the season on majors at 2x or less; fees near 0.05%`, 6, 60]],
     yield: (C) => [['Mint', 'Day 0', `mint or deposit ${usd(C)} into its yield token or vault (approve + mint); do not loop it`, 2, 10]],
     rwa: (C) => [['Onboard', 'Day 0', 'pass its KYC or whitelist: 30 minutes of forms, then 1 to 3 days of waiting', 0, 30], ['Subscribe', 'Day 3', `subscribe ${usd(C)} once whitelisted (approve + subscribe)`, 2, 10]],
-    stake: (C) => [['Stake', 'Day 0', `stake or restake ${usd(C)} of the asset it accepts (approve + stake); note the unbonding delay before counting on exit`, 2, 15]],
+    stake: (C) => [['Stake', 'Day 0', `stake or restake ${usd(C)} of the asset it accepts (approve + stake); mind the unbonding delay`, 2, 15]],
     infra: (C) => [['Use', 'Monthly', `use the product with ${usd(C)}: four round trips over the season (bridge, pay or mint and back)`, 8, 40]],
   };
   /** Days to hold: long on record means fewer seasons left before a snapshot, so a shorter plan. */
@@ -257,8 +257,8 @@
   function farmPlan(r, e, asOf) {
     const C = e.capital, g = e.gas, H = e.hold, out = [], cost = (x) => (x > 0 && x < 0.995 ? `$${x.toFixed(2)}` : usd(x));
     const add = (step, when, text, dollars, minutes) => out.push({ step, when, text: `${step} (${when}): ${text}`, cost: dollars, minutes });
-    add('Wallet', 'Day 0', 'set up a fresh wallet used only for this farm (hardware-backed if you hold more than a few thousand dollars). Cost $0, about 10 min.', 0, 10);
-    add('Verify', 'Day 0', `DefiLlama records no token for ${r.name} on ${asOf}; check its docs, X and CoinGecko for a live token or a points page and match the contract addresses; never sign from a link in a DM. Cost $0, about 15 min.`, 0, 15);
+    add('Wallet', 'Day 0', 'a fresh wallet used only for this farm, hardware-backed above a few thousand dollars. Cost $0, about 10 min.', 0, 10);
+    add('Verify', 'Day 0', `DefiLlama records no token for ${r.name} on ${asOf}; check its docs, X and CoinGecko for a live token or points page, match contract addresses, never sign from a DM link. Cost $0, about 15 min.`, 0, 15);
     const fee = entryFee(e.chain);
     add('Fund', 'Day 0', `withdraw ${usd(C)} USDC from an exchange straight to ${e.chain}${r.chains.length > 1 ? `, the cheapest of its ${r.chains.length} chains` : ', its only chain'}, keeping gas for ${e.tx} transactions at about ${cost(g)}. Cost ${cost(fee)}, about 15 min.`, fee, 15);
     e.actions.forEach(([step, when, what, tx, min]) => {
@@ -268,7 +268,7 @@
     });
     add('Hold', `Days 1-${H}`, `keep it in ${H} days and check points and TVL weekly (${e.weeks} x 5 min). Carry: ${(e.risk * 365 / H * 100).toFixed(1)}% a year of contract and depeg risk on ${usd(C)} = ${usd(C * e.risk)}.`, C * e.risk, e.weeks * 5);
     add('Exit rule', 'Any day', `withdraw if TVL prints below ${usd(r.tvl * 0.75)} (25% under today's ${usd(r.tvl)}; this week ${pct(r.change7d)}), if the points terms change, or if a token is announced with its snapshot past. Cost ${cost(g)}, about 10 min.`, g, 10);
-    add('Record', `Weekly x${e.weeks}`, 'log every transaction (date, hash, asset, amount, dollar value): a claim may ask the wallet to prove its history, and a drop is taxable in many places. Cost $0, about 2 min a week.', 0, e.weeks * 2);
+    add('Record', `Weekly x${e.weeks}`, 'log each transaction (date, hash, asset, amount, dollar value): claims may ask for history, and drops are taxable in many places. Cost $0, about 2 min a week.', 0, e.weeks * 2);
     add('Claim', `Day ${H}+`, `if a token lists, claim and sell or hedge half on day one. At ${(e.share * 100).toFixed(0)}% of supply to farmers and ${(e.launch * 100).toFixed(0)}% launch odds in the window, ${usd(C)} earns about ${usd(e.expected)} (P25 ${usd(e.expectedLo)}, P75 ${usd(e.expectedHi)}). Cost ${cost(g)}, about 15 min.`, g, 15);
     out.push({ step: 'Verdict', when: '', text: `Verdict ${e.verdict}: net about ${usd(e.net)} (P25 ${usd(e.netLo)}) for ${e.hours.toFixed(1)} h of your time = ${usd(e.hourly)} an hour against a ${usd(ASSUME.hourTarget)} target; the same money in a 4% T-bill earns ${usd(e.tbill)}. Break-even capital: ${e.minViable === null ? 'none, the risk carry beats the drop at any size' : usd(e.minViable)}.`, cost: null, minutes: null });
     return out;
@@ -325,6 +325,9 @@
       r.plan = farmPlan(r, r.farm, snap.as_of);
     });
     const boot = bootstrap(model, pre, 200);
+    // The page's model sandbox: the same odds on the single best-tested curve, and on one flat multiple.
+    const [a, b] = model.fits[0].coef;
+    pre.forEach((r) => { r.alt = { tvl: 10 ** (a + b * r.lt) * r.odds, flat: 10 ** (r.lt + model.flatRatio) * r.odds }; });
     const count = (s) => rows.filter((r) => r.status === s).length;
     return { asOf: snap.as_of, source: snap.source, floor: snap.floor_usd, rows, ranked, model, odds, boot, share: sh, checksum: checksum(ranked),
       total: ranked.reduce((s, r) => s + r.implied, 0),
